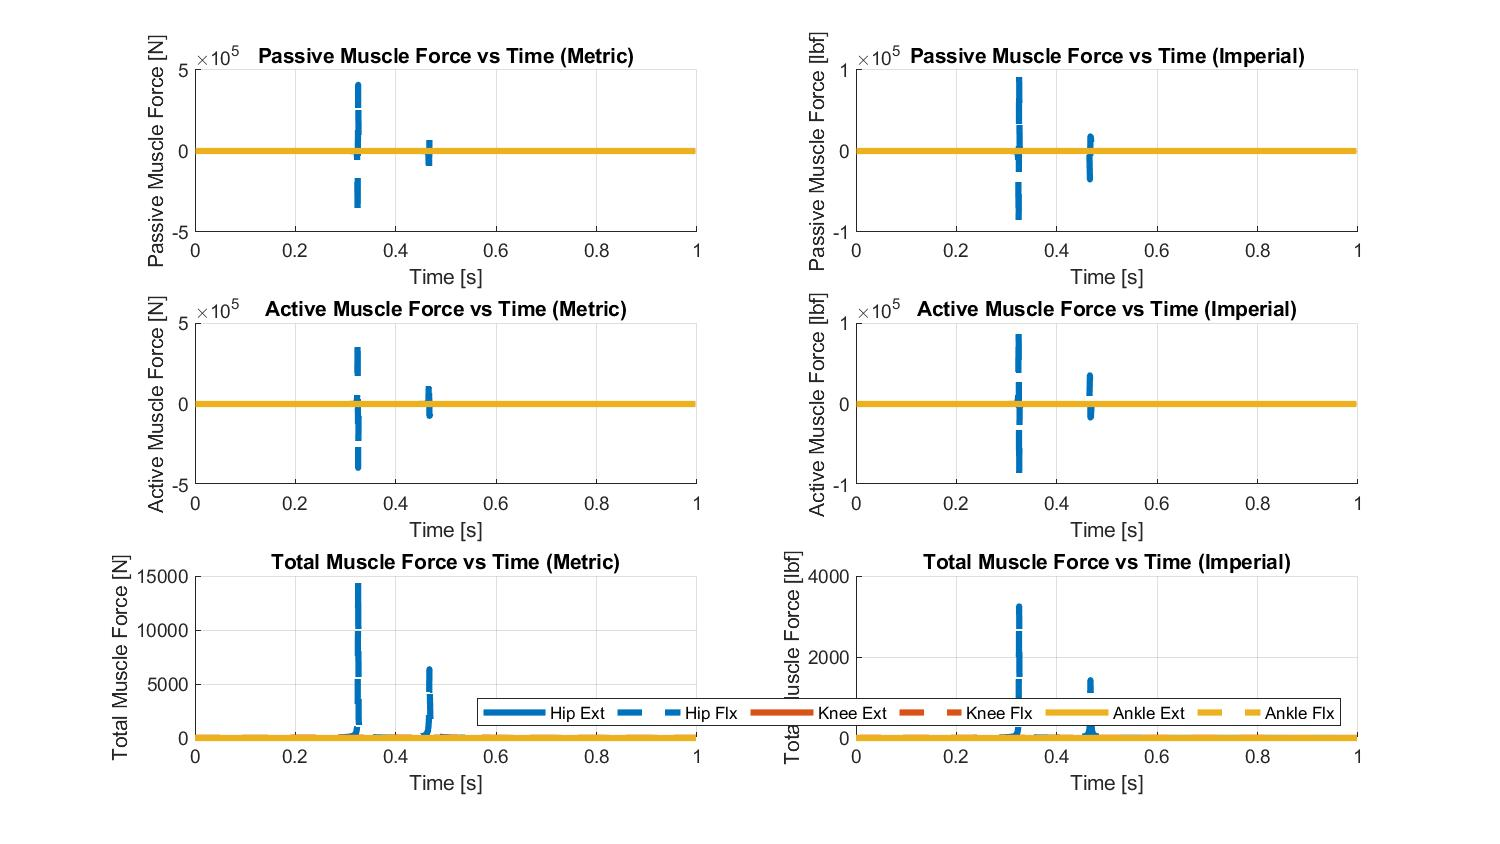
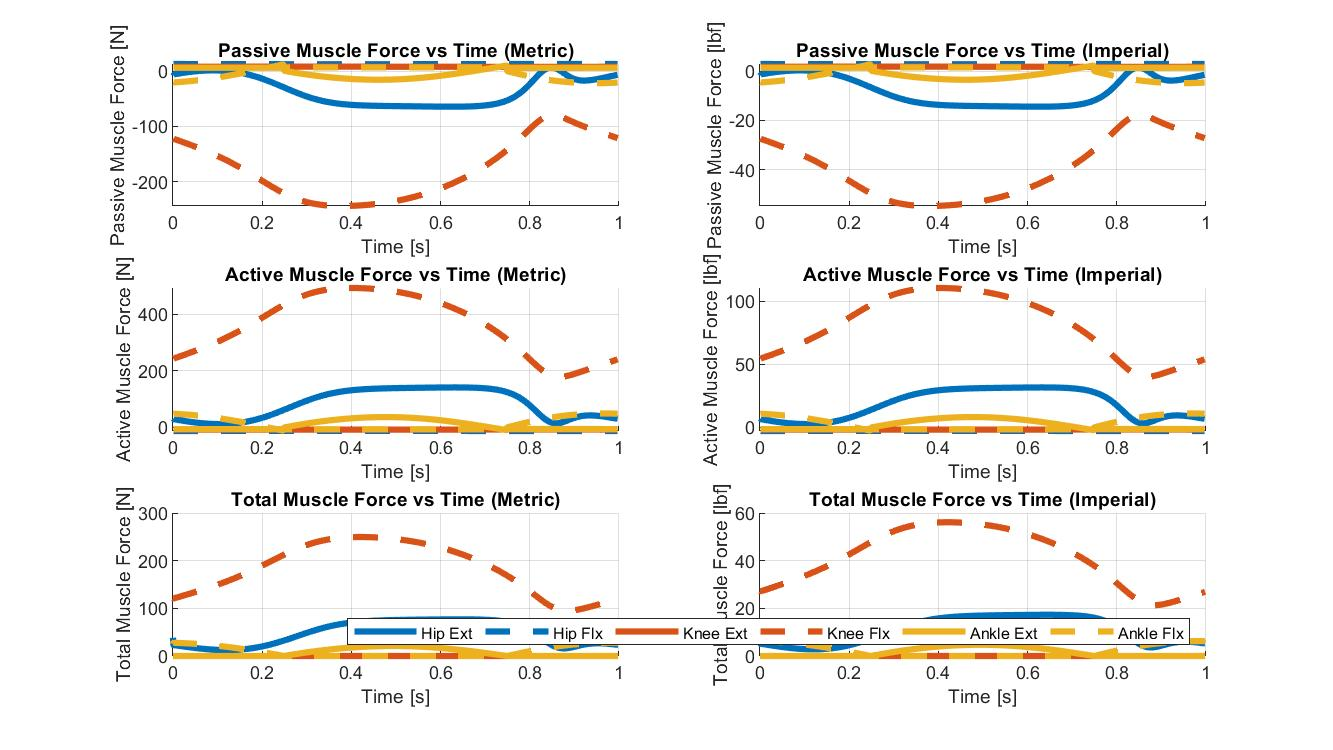
update

diff --git a/Code/Matlab/Analysis/Dynamic_Simulation/QuadrupedSimulation_original.m b/Code/Matlab/Analysis/Dynamic_Simulation/QuadrupedSimulation_original.m
@@ -7,92 +7,86 @@ clear, close('all'), clc
 
 %% Define the Robot Geometry & Mechanical Properties.
 
-% Setting global origin to coordinate system 1 as defined by Miles
-
-% Define the mechanical properties of link 1 - defined by hip
-% flexion/extension (Hip swivel)
-m1 = 0.133594;                                                                                                  % [kg] Link Mass.
+% Define the mechanical properties of link 1.
+m1 = 1;                                                                                                         % [kg] Link Mass.
 ct1 = 1;                                                                                                        % [Nms/rad] Link Angular Viscous Friction.
 kt1 = 1;                                                                                                        % [Nm/rad] Link Angular Stiffness.
-Lx1 = 0.13214; Ly1 = 0.0127; Lz1 = 0.06867; Ls1 = [Lx1; Ly1; Lz1];                                              % [m] Link Length in each direction of the local link frame.
-Phome_cm1 = [0.000757; 0 ; 0.048312];                                                                           % [m] Link Center of Mass Location in the Global Frame.
+% Lx1 = 1; Ly1 = 0.1; Lz1 = 0.1; Ls1 = [Lx1; Ly1; Lz1];                                                         % [m] Link Length in each direction of the local link frame.
+Lx1 = 0.254; Ly1 = 0.019; Lz1 = 0.019; Ls1 = [Lx1; Ly1; Lz1];                                                 % [m] Link Length in each direction of the local link frame.
+% Lx1 = 0.1524; Ly1 = 0.0254; Lz1 = 0.0254; Ls1 = [Lx1; Ly1; Lz1];                                                % [m] Link Length in each direction of the local link frame.
+% Phome_cm1 = [Lx1/2; 0; 0];                                                                                      % [m] Link Center of Mass Location in the Global Frame.
+Phome_cm1 = [46e-3; 0; 0];                                                                                      % [m] Link Center of Mass Location in the Global Frame.
 Rhome_cm1 = eye(3);                                                                                             % [-] Link Center of Mass Orientation in the Global Frame.
-Ihome_cm1 = [0.000084, 0, 0; 0, 0.000228, 0; 0, 0, 0.000148];                                                   % [m^2/kg] Link Moment of Inertia at COM in the Local Frame.
+Ihome_cm1 = [(1/12)*m1*(Ly1^2 + Lz1^2) 0 0; 0 (1/12)*m1*(Lx1^2 + Lz1^2) 0; 0 0 (1/12)*m1*(Lx1^2 + Ly1^2)];      % [m^2/kg] Link Moment of Inertia at COM in the Local Frame.
 G1 = [Ihome_cm1, zeros(3, 3); zeros(3, 3), m1*eye(3, 3)];                                                       % [-] Spatial Inertia Matrix for This Link.
 Phome_body1 = GetCuboidPoints(Ls1(1), Ls1(2), Ls1(3), Phome_cm1(1), Phome_cm1(2), Phome_cm1(3), 0, 0, 0);       % [m] Link Points
 Rhome_body1 = Rhome_cm1;                                                                                        % [-] Orientation of the Link in the Global Frame.
 
-% Define the mechanical properties of link 2 - defined by
-% abduction/adduction (hip swivel, femur, upper knee)
-m2 = 0.186595;                                                                                                  % [kg] Link Mass.
+% Define the mechanical properties of link 2.
+m2 = 1;                                                                                                         % [kg] Link Mass.
 ct2 = 1;                                                                                                        % [Nms/rad] Link Angular Viscous Friction.
 kt2 = 1;                                                                                                        % [Nm/rad] Link Angular Stiffness.
-Lx2 = 0.35065; Ly2 = 0.02111; Lz2 = 0.0254; Ls2 = [Lx2; Ly2; Lz2];                                              % [m] Link Length in each direction of the local link frame.
-Phome_cm2 = [0.111622; -0.000577 ; 0.050078];                                                                   % [m] Link Center of Mass Location in the Global Frame.
+% Lx2 = 1; Ly2 = 0.1; Lz2 = 0.1; Ls2 = [Lx2; Ly2; Lz2];                                                         % [m] Link Length in each direction of the local link frame.
+Lx2 = 0.21; Ly2 = 0.019; Lz2 = 0.019; Ls2 = [Lx2; Ly2; Lz2];                                                  % [m] Link Length in each direction of the local link frame.
+% Lx2 = 0.20955; Ly2 = 0.0254; Lz2 = 0.0254; Ls2 = [Lx2; Ly2; Lz2];                                               % [m] Link Length in each direction of the local link frame.
+% Phome_cm2 = [Lx1 + Lx2/2; 0; 0];                                                                                % [m] Link Center of Mass Location in the Global Frame.
+Phome_cm2 = [Phome_cm1(1) + Lx1/2 + Lx2/2; 0; 0];                                                                                % [m] Link Center of Mass Location in the Global Frame.
 Rhome_cm2 = eye(3);                                                                                             % [-] Link Center of Mass Orientation in the Global Frame.
-Ihome_cm2 = [0.000031, -0.000017, 0; -0.000017, 0.002070, 0; 0, 0, 0.002075];                                   % [m^2/kg] Link Moment of Inertia at COM in the Local Frame.
+Ihome_cm2 = [(1/12)*m2*(Ly2^2 + Lz2^2) 0 0; 0 (1/12)*m2*(Lx2^2 + Lz2^2) 0; 0 0 (1/12)*m2*(Lx2^2 + Ly2^2)];      % [m^2/kg] Link Moment of Inertia at COM in the Local Frame.
 G2 = [Ihome_cm2, zeros(3, 3); zeros(3, 3), m2*eye(3, 3)];                                                       % [-] Spatial Inertia Matrix for This Link.
 Phome_body2 = GetCuboidPoints(Ls2(1), Ls2(2), Ls2(3), Phome_cm2(1), Phome_cm2(2), Phome_cm2(3), 0, 0, 0);       % [m] Link Points
 Rhome_body2 = Rhome_cm2;                                                                                        % [-] Orientation of the Link in the Global Frame.
 
-% Define the mechanical properties of link 3 - Tibia, lower knee, encoders.
-m3 = .170503;                                                                                                   % [kg] Link Mass.
+% Define the mechanical properties of link 3.
+m3 = 1;                                                                                                         % [kg] Link Mass.
 ct3 = 1;                                                                                                        % [Nms/rad] Link Angular Viscous Friction.
 kt3 = 1;                                                                                                        % [Nm/rad] Link Angular Stiffness.
-Lx3 = 0.23422; Ly3 = 0.01588; Lz3 = 0.01619; Ls3 = [Lx3; Ly3; Lz3];                                             % [m] Link Length in each direction of the local link frame.    
-Phome_cm3 = [0.366555; -.000297; 0.053825];                                                                     % [m] Link Center of Mass Location in the Global Frame.
+% Lx3 = 1; Ly3 = 0.1; Lz3 = 0.1; Ls3 = [Lx3; Ly3; Lz3];                                                         % [m] Link Length in each direction of the local link frame.
+Lx3 = 0.148; Ly3 = 0.019; Lz3 = 0.019; Ls3 = [Lx3; Ly3; Lz3];                                                 % [m] Link Length in each direction of the local link frame.
+% Lx3 = 0.1143; Ly3 = 0.0254; Lz3 = 0.0254; Ls3 = [Lx3; Ly3; Lz3];                                                % [m] Link Length in each direction of the local link frame.
+% Phome_cm3 = [Lx1 + Lx2 + Lx3/2; 0; 0];                                                                          % [m] Link Center of Mass Location in the Global Frame.
+Phome_cm3 = [Phome_cm2(1) + Lx2/2 + Lx3/2; 0; 0];                                                                          % [m] Link Center of Mass Location in the Global Frame.
 Rhome_cm3 = eye(3);                                                                                             % [-] Link Center of Mass Orientation in the Global Frame.
-Ihome_cm3 = [0.000033, 0.000005, 0.00001; 0.000005, 0.001383, 0; 0.00001, 0, 0.001372];                         % [m^2/kg] Link Moment of Inertia at COM in the Local Frame.
+Ihome_cm3 = [(1/12)*m3*(Ly3^2 + Lz3^2) 0 0; 0 (1/12)*m3*(Lx3^2 + Lz3^2) 0; 0 0 (1/12)*m3*(Lx3^2 + Ly3^2)];      % [m^2/kg] Link Moment of Inertia at COM in the Local Frame.
 G3 = [Ihome_cm3, zeros(3, 3); zeros(3, 3), m3*eye(3, 3)];                                                       % [-] Spatial Inertia Matrix for This Link.
 Phome_body3 = GetCuboidPoints(Ls3(1), Ls3(2), Ls3(3), Phome_cm3(1), Phome_cm3(2), Phome_cm3(3), 0, 0, 0);       % [m] Link Points
 Rhome_body3 = Rhome_cm3;                                                                                        % [-] Orientation of the Link in the Global Frame.
 
-% Define the mechanical properties of link 4 - Foot.
-m4 = 0.087102;                                                                                                  % [kg] Link Mass.
-ct4 = 1;                                                                                                        % [Nms/rad] Link Angular Viscous Friction.
-kt4 = 1;                                                                                                        % [Nm/rad] Link Angular Stiffness.
-Lx4 = 0.13413; Ly4 = 0.00318; Lz4 = 0.01753; Ls4 = [Lx4; Ly4; Lz4];                                          % [m] Link Length in each direction of the local link frame.
-Phome_cm4 = [.539952; 0.014351 ; 0.049821];                                                                     % [m] Link Center of Mass Location in the Global Frame.
-Rhome_cm4 = eye(3);                                                                                             % [-] Link Center of Mass Orientation in the Global Frame.
-Ihome_cm4 = [0.000038, -0.000042, 0.000001; -0.000042, 0.000277, 0; 0.000001, 0, 0.000306];                     % [m^2/kg] Link Moment of Inertia at COM in the Local Frame.
-G4 = [Ihome_cm4, zeros(3, 3); zeros(3, 3), m4*eye(3, 3)];                                                       % [-] Spatial Inertia Matrix for This Link.
-Phome_body4 = GetCuboidPoints(Ls4(1), Ls4(2), Ls4(3), Phome_cm4(1), Phome_cm4(2), Phome_cm4(3), 0, 0, 0);       % [m] Link Points
-Rhome_body4 = Rhome_cm4;                                                                                        % [-] Orientation of the Link in the Global Frame.
-
 % Compile information about each link into arrays.
-ms = [m1; m2; m3; m4];                                                                                          % [kg] Mass of Each Link.
-cts = [ct1; ct2; ct3; ct4];                                                                                     % [Nms/rad] Angular Viscous Friction of Each Link.
-kts = [kt1; kt2; kt3; kt4];                                                                                     % [Nm/rad] Link Angular Stiffness.
-Phome_cms = [Phome_cm1 Phome_cm2 Phome_cm3 Phome_cm4];                                                          % [m] Center of Mass Location for Each Link in the Global Frame.
-Rhome_cms = cat(3, Rhome_cm1, Rhome_cm2, Rhome_cm3, Rhome_cm4);                                                 % [-] Center of Mass Orientation for Each Link in the Global Frame.
-Ihome_cms = cat(3, Ihome_cm1, Ihome_cm2, Ihome_cm3, Ihome_cm4);                                                 % [m^2/kg] Moment of Inertia for Each Link in their Local Frames.
-Gs = cat(3, G1, G2, G3, G4);                                                                                    % [-] Spatial Inertia Matrix for Each Link in the Global Frame.
-Phome_bodies = cat(3, Phome_body1, Phome_body2, Phome_body3, Phome_body4);                                      % [m] Body Points for Each Link in the Global Frame.
-Rhome_bodies = cat(3, Rhome_body1, Rhome_body2, Rhome_body3, Rhome_body4);                                      % [m] Orientation of Each Link in the Global Frame.                                                                               % [m] Total Length.
-Ltotal = Phome_cm4(1) + Lx4/2;                                                                                  % [m] Total Length.
+ms = [m1; m2; m3];                                                                                              % [kg] Mass of Each Link.
+cts = [ct1; ct2; ct3];                                                                                          % [Nms/rad] Angular Viscous Friction of Each Link.
+kts = [kt1; kt2; kt3];                                                                                          % [Nm/rad] Link Angular Stiffness.
+Phome_cms = [Phome_cm1 Phome_cm2 Phome_cm3];                                                                    % [m] Center of Mass Location for Each Link in the Global Frame.
+Rhome_cms = cat(3, Rhome_cm1, Rhome_cm2, Rhome_cm3);                                                            % [-] Center of Mass Orientation for Each Link in the Global Frame.
+Ihome_cms = cat(3, Ihome_cm1, Ihome_cm2, Ihome_cm3);                                                            % [m^2/kg] Moment of Inertia for Each Link in their Local Frames.
+Gs = cat(3, G1, G2, G3);                                                                                        % [-] Spatial Inertia Matrix for Each Link in the Global Frame.
+Phome_bodies = cat(3, Phome_body1, Phome_body2, Phome_body3);                                                   % [m] Body Points for Each Link in the Global Frame.
+Rhome_bodies = cat(3, Rhome_body1, Rhome_body2, Rhome_body3);                                                   % [m] Orientation of Each Link in the Global Frame.
+% Ltotal = Lx1 + Lx2 + Lx3;                                                                                       % [m] Total Length.
+Ltotal = Phome_cm3(1) + Lx3/2;                                                                                       % [m] Total Length.
 
 % Define the home joint locations.
-Phome_joint1 = [0; 0; 0.05008];                                                                                 % [m] Joint Location in the Global Frame.
-Phome_joint2 = [-0.06985; 0; 0.05008];                                                                                 % [m] Joint Location in the Global Frame.
-Phome_joint3 = [0.26118; 0; 0.05008];                                                                    % [m] Joint Location in the Global Frame.                                                                          % [m] Joint Location in the Global Frame.
-Phome_joint4 = [0.23754; 0; 0.05008];                                                                    % [m] Joint Location in the Global Frame.
-Phome_joints = [Phome_joint1 Phome_joint2 Phome_joint3 Phome_joint4];                                           % [m] Joint Locations in the Global Frame.
+Phome_joint1 = [0; 0; 0];                                                                                       % [m] Joint Location in the Global Frame.
+% Phome_joint2 = [Lx1; 0; 0];                                                                                     % [m] Joint Location in the Global Frame.
+Phome_joint2 = [Phome_cm1(1) + Lx1/2; 0; 0];                                                                                     % [m] Joint Location in the Global Frame.
+% Phome_joint3 = [Lx1 + Lx2; 0; 0];                                                                               % [m] Joint Location in the Global Frame.
+Phome_joint3 = [Phome_cm2(1) + Lx2/2; 0; 0];                                                                               % [m] Joint Location in the Global Frame.
+Phome_joints = [Phome_joint1 Phome_joint2 Phome_joint3];                                                        % [m] Joint Locations in the Global Frame.
 
 % Define the home joint orientations.
-Rhome_joint1 = Rhome_body1; 
+Rhome_joint1 = Rhome_body1;                                                                                     % [-] Joint Orientation in the Global Frame.
 Rhome_joint2 = Rhome_body2;                                                                                     % [-] Joint Orientation in the Global Frame.
 Rhome_joint3 = Rhome_body3;                                                                                     % [-] Joint Orientation in the Global Frame.
-Rhome_joint4 = Rhome_body4;                                                                                     % [-] Joint Orientation in the Global Frame.
-Rhome_joints = cat(3, Rhome_joint1, Rhome_joint2, Rhome_joint3, Rhome_joint4);                                                % [-] Joint Orientations in the Global Frame.
+Rhome_joints = cat(3, Rhome_joint1, Rhome_joint2, Rhome_joint3);                                                % [-] Joint Orientations in the Global Frame.
 
-% Define the joint axes of rotation.
-w1_local = [0; 0; 1];                                                                                           % [rad/s] Axis of Rotation of for a(b/d)duction This Link in its Local Frame (Note that, since the local frames are in this case aligned with the global frame in the home position), these are the same rotational axes used in the screw axes).
-w2_local = [1; 0; 0];                                                                                           % [rad/s] Axis of Rotation of This Link in its Local Frame (Note that, since the local frames are in this case aligned with the global frame in the home position), these are the same rotational axes used in the screw axes).                     
+% Define the joint axes of ration.
+w1_local = [0; 0; 1];                                                                                           % [rad/s] Axis of Rotation of This Link in its Local Frame (Note that, since the local frames are in this case aligned with the global frame in the home position), these are the same rotational axes used in the screw axes).
+w2_local = [0; 0; 1];                                                                                           % [rad/s] Axis of Rotation of This Link in its Local Frame (Note that, since the local frames are in this case aligned with the global frame in the home position), these are the same rotational axes used in the screw axes).
 w3_local = [0; 0; 1];                                                                                           % [rad/s] Axis of Rotation of This Link in its Local Frame (Note that, since the local frames are in this case aligned with the global frame in the home position), these are the same rotational axes used in the screw axes).
-w4_local = [0; 0; 1];                                                                                           % [rad/s] Axis of Rotation of This Link in its Local Frame (Note that, since the local frames are in this case aligned with the global frame in the home position), these are the same rotational axes used in the screw axes).
-ws_local = [w1_local w2_local w3_local w4_local];                                                                        % [rad/s] Axes of Rotation of Each Link in its Local Frame.
+ws_local = [w1_local w2_local w3_local];                                                                        % [rad/s] Axes of Rotation of Each Link in its Local Frame.
 
 % Define the end effector location & orientation.
+% Phome_end = [Lx1 + Lx2 + Lx3; 0; 0];                                                                    % [m] End Effector Location in the Global Frame.
 Phome_end = [Ltotal; 0; 0];                                                                    % [m] End Effector Location in the Global Frame.
 Rhome_end = eye(3);                                                                                     % [-] End Effector Orientation in the Global Frame.
 
@@ -109,10 +103,8 @@ kse = 30;                % [N/m] Hill Muscle Model Series Stiffness.
 kpe = 30;                % [N/m] Hill Muscle Model Parallel Stiffness.
 b = 1;                  % [Ns/m] Hill Muscle Model Damping Coefficient.
 
-% Define the joint names. Hip x is the joint for abduction/adduction, as it
-% rotates around the x-axis, hip z s the joint for flexion/extension as it
-% rotates around the z axis
-joint_names = {'Hip_z', 'Hip_x', 'Knee', 'Ankle'};
+% Define the joint names.
+joint_names = {'Hip', 'Knee', 'Ankle'};
 
 % Define the possible muscle types.
 muscle_type_names = {'Ext', 'Flx'};
@@ -140,11 +132,9 @@ for k1 = 1:num_joints                       % Iterate through each joint...
 end
 
 % Define the joint orientations.  i.e., the first joint is moved in the positive direction by the extensor, the second by the flexor, and the third by the extensor.
-muscle_joint_orientations = {'Ext', 'Flx', 'Flx', 'Ext'};
+muscle_joint_orientations = {'Ext', 'Flx', 'Ext'};
 
 % Read in the muscle location data.
-Ps_hipadd = dlmread('Ps_hipadd.txt');
-Ps_hipabd = dlmread('Ps_hipabd.txt');
 Ps_hipext = dlmread('Ps_hipext.txt');
 Ps_hipflx = dlmread('Ps_hipflx.txt');
 Ps_kneeext = dlmread('Ps_kneeext.txt');
@@ -153,7 +143,7 @@ Ps_ankleext = dlmread('Ps_ankleext.txt');
 Ps_ankleflx = dlmread('Ps_ankleflx.txt');
 
 % Store the muscle attachment locations in a high order tensor.
-Phome_muscles = cat(3, Ps_hipadd, Ps_hipabd, Ps_hipext, Ps_hipflx, Ps_kneeext, Ps_kneeflx, Ps_ankleext, Ps_ankleflx);
+Phome_muscles = cat(3, Ps_hipext, Ps_hipflx, Ps_kneeext, Ps_kneeflx, Ps_ankleext, Ps_ankleflx);
 
 % Define the home orientation of the muscles.
 Rhome_muscles = eye(3);
@@ -220,27 +210,24 @@ for k1 = 1:num_muscles                      % Iterate through each of the muscle
 end
 
 % Define the home matrix for the end effector.
-
 Mend = [Rhome_end, Phome_end; zeros(1, 3), 1];
 Jend = num_joints;
 
 % Define the screw axes.
-S1 = [w1_local; cross(Phome_joint1, w1_local)];
-S2 = [w2_local; cross(Phome_joint2, w2_local)];
-S3 = [w3_local; cross(Phome_joint3, w3_local)];
-S4 = [w4_local; cross(Phome_joint4, w4_local)];
-Ss = [S1 S2 S3 S4];
+% S1 = [0; 0; 1; 0; 0; 0];
+% S2 = [0; 0; 1; 0; -Lx1; 0];
+% S3 = [0; 0; 1; 0; -(Lx1 + Lx2); 0];
+S1 = [0; 0; 1; 0; -Phome_joint1(1); 0];
+S2 = [0; 0; 1; 0; -Phome_joint2(1); 0];
+S3 = [0; 0; 1; 0; -Phome_joint3(1); 0];
+Ss = [S1 S2 S3];
+
 
 %% Define the Simulation Properties.
 
 % Create a time vector.
 dt = 0.001;                  % [s] Simulation Step Size.
 % dt = 0.0001;                  % [s] Simulation Step Size.
-
-%{
-Adjust to reflect walking motion loop time (1.5 ~ 2 seconds?)
-%}
-
 tfinal = 1;                 % [s] Simulation Duration.
 ts = 0:dt:tfinal;           % [s] Simulation Time Vector.
 
@@ -253,7 +240,7 @@ g = [0; -9.81; 0];
 
 %% Define the Trajectory Properties.
 
-% Define the stance duty cycle. - Unused?
+% Define the stance duty cycle.
 stance_duty = 0.5;
 % stance_duty = 0.25;
 
@@ -266,21 +253,14 @@ ts_stance = ts(ns_swing + 1:num_timesteps);
 ts_swing = ts(1:ns_swing);
 
 % Define the ground height.
-femur_length = Phome_joint3(1) - Phome_joint1(1);
-tibia_length = Phome_joint4(1) - Phome_joint3(1);
-foot_length = Lx4;
-ground_height = femur_length + (sind(45) * tibia_length) + foot_length;    % [m] Ground Height Relative to Body.
+% ground_height = 0.5;
+ground_height = 0.46;               % [m] Ground Height Relative to Body.
+% ground_height = 0.381;
 
 % Define the horizontal step shift.
-horizontal_shift = 0.5 * sind(45) * tibia_length;                          % [m] Horizontal Shift to Apply to Step Trajectory.
+horizontal_shift = 0.075;           % [m] Horizontal Shift to Apply to Step Trajectory.
 
 % Define the step height and stride length.
-
-%{
-Verify this matches the step trajectory and check where in code thse vars
-are used
-%}
-
 step_height = 0.05;         % [m] Step Heigth.
 step_length = 0.1;          % [m] Step Length.
 
@@ -291,24 +271,11 @@ step_length = 0.1;          % [m] Step Length.
 fprintf('GENERATING DESIRED END EFFECTOR TRAJECTORY... Please Wait...\n')
 
 % Define the swing end effector path.
-
-%{
-First - adjust swing to reflect top half of circle
-Second - adjust swing to reflect oval dimensions
-Third - Add stability factors for account for stance to swing and swing to
-stance deformations.
-%}
-
-xs_swing = step_length*cos(pi*ts_swing);
-ys_swing = step_height*sin(pi*ts_swing) - ground_height;
+xs_swing = step_length*cos(2*pi*ts_swing);
+ys_swing = step_height*sin(2*pi*ts_swing) - ground_height;
 zs_swing = zeros(1, ns_swing);
 
 % Define the stance end effector path.
-
-%{
-Verify that stance segment of path is added to model
-%}
-
 xs_stance = linspace(xs_swing(end), xs_swing(1), ns_stance);
 ys_stance = -ground_height*ones(1, ns_stance);
 zs_stance = zeros(1, ns_stance);
@@ -319,11 +286,6 @@ zs_stance = zeros(1, ns_stance);
 % zs_desired = zeros(1, num_timesteps);
 
 % Define the desired end effector path. (Use for circular swing and stance.)
-
-%{
-Adjust to reflect stance and swing end effector paths
-%}
-
 xs_desired = step_length*cos(2*pi*ts) + horizontal_shift;
 ys_desired = step_height*sin(2*pi*ts) - ground_height;
 zs_desired = zeros(1, num_timesteps);
@@ -445,11 +407,6 @@ end
 fprintf('COMPUTING INVERSE DYNAMICS SOLUTION (i.e., Required Joint Torques)... Please Wait...\n')
 
 % Define any external forces & moments applied to the end effector.
-
-%{
-Add any ground forces during stance timesteps
-%}
-
 Ftipmat = zeros(num_timesteps, 6);
 
 % Configure the relevant home matrices to have the shape required by the inverse dynamics function.  Note that the inverse dynamics function requires relative home matrices.

diff --git a/Code/Matlab/Analysis/Dynamic_Simulation/QuadrupedSimulation.m b/Code/Matlab/Analysis/Dynamic_Simulation/QuadrupedSimulation.m
@@ -266,17 +266,13 @@ ts_stance = ts(ns_swing + 1:num_timesteps);
 ts_swing = ts(1:ns_swing);
 
 % Define the ground height.
-
-%{
-Adjust to fit current model
-%}
-
-% ground_height = 0.5;
-ground_height = 0.46;               % [m] Ground Height Relative to Body.
-% ground_height = 0.381;
+femur_length = Phome_joint3(1) - Phome_joint1(1);
+tibia_length = Phome_joint4(1) - Phome_joint3(1);
+foot_length = Lx4;
+ground_height = femur_length + (sind(45) * tibia_length) + foot_length;    % [m] Ground Height Relative to Body.
 
 % Define the horizontal step shift.
-horizontal_shift = 0.075;           % [m] Horizontal Shift to Apply to Step Trajectory.
+horizontal_shift = 0.5 * sind(45) * tibia_length;                          % [m] Horizontal Shift to Apply to Step Trajectory.
 
 % Define the step height and stride length.
 
@@ -370,7 +366,7 @@ eomg = 1e-6; ev = 1e-6;
 
 % Define the starting joint angle values for the inverse kinematics algorithm.
 % theta_guess = zeros(num_joints, 1);
-theta_guess = (pi/180)*[-143; 63; -10.21];
+theta_guess = (pi/180)*[-143; 0; 63; -10.21];
 
 % Compute the joint angles associated with the desired trajectory.
 [thetas_desired, successes] = InverseKinematics(Ss, Mend, Ts_desired, theta_guess, eomg, ev);
